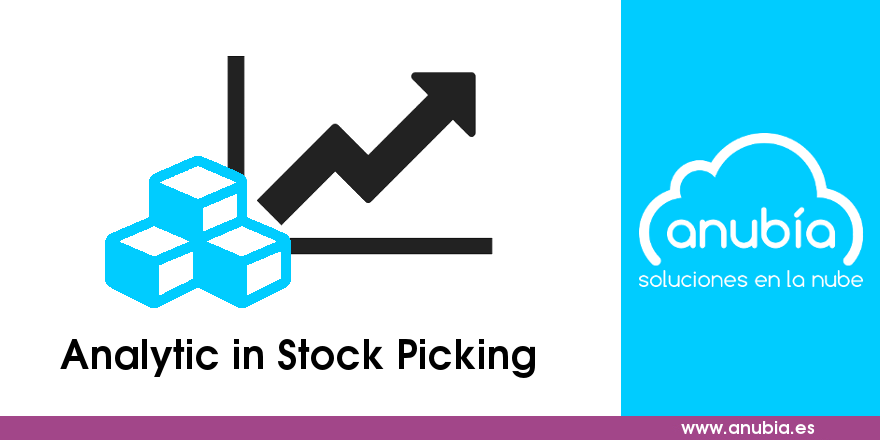
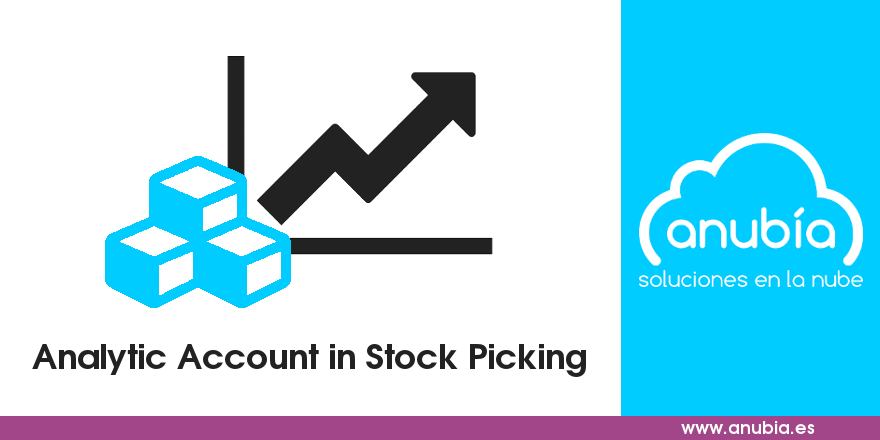
[IMP] Module standard name modified

Changed region(s): [[0.0307, 0.7682, 0.675, 0.8568]]

diff --git a/anb_analytic_in_stock_picking/static/description/index.html b/anb_analytic_in_stock_picking/static/description/index.html
@@ -1,6 +1,6 @@
 <section class="oe_container">
     <div class="oe_row oe_spaced">
-        <h2 class="oe_slogan" style="color:#875A7B;">Analytic in Stock Picking</h2>
+        <h2 class="oe_slogan" style="color:#875A7B;">Analytic Account in Stock Picking</h2>
         <h3 class="oe_slogan">Add an analytic account to incoming/outgoing pickings.</h3>
         <div class="oe_demo oe_picture oe_screenshot">
             <img src="main_1.png"/>

diff --git a/anb_analytic_in_stock_picking/__openerp__.py b/anb_analytic_in_stock_picking/__openerp__.py
@@ -22,7 +22,7 @@
 ##############################################################################
 
 {
-    'name': 'Analytic in Stock Picking',
+    'name': 'Analytic Account in Stock Picking',
     'summary': 'Analytic account in stock pickings',
     'description': """Description in HTML file.""",
     'category': 'Accounting',
